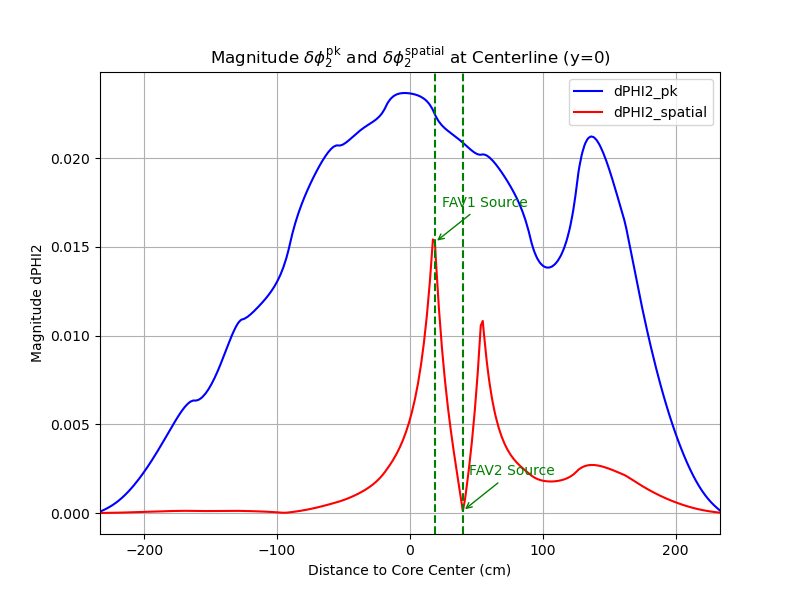
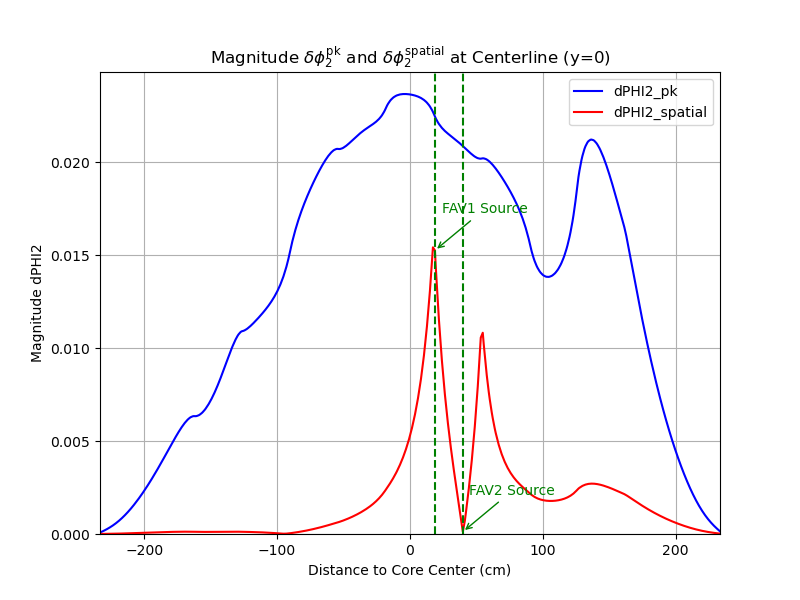
fix phase plot of pk components

diff --git a/OUTPUTS/OBJECTIVES3_TEST07_3DTriMG_HTTR_AVS/OBJECTIVES3_TEST07_3DTriMG_HTTR_AVS_level1_PK_COMPONENTS/OBJECTIVES3_TEST07_3DTriMG_HTTR_AVS_level1_NOISE/comparison2.py b/OUTPUTS/OBJECTIVES3_TEST07_3DTriMG_HTTR_AVS/OBJECTIVES3_TEST07_3DTriMG_HTTR_AVS_level1_PK_COMPONENTS/OBJECTIVES3_TEST07_3DTriMG_HTTR_AVS_level1_NOISE/comparison2.py
@@ -398,6 +398,13 @@ def plot_1D_centerline_y0_2(PHI1g, PHI2g, x_coords, y_coords, conv_tri, I_max, J
     ax1.set_ylabel(f'{process_data.capitalize()} dPHI{g}')
     ax1.set_title(fr'{process_data.capitalize()} $\delta \phi_{{{g}}}^{{\text{{pk}}}}$ and $\delta \phi_{{{g}}}^{{\text{{spatial}}}}$ at Centerline (y=0), Midplane (Z=5)')
     ax1.set_xlim(unique_distances[0], unique_distances[-1])
+    if process_data == 'magnitude':
+        ymax = max(max(flux1_values), max(flux2_values))
+        ymax *= 1.05
+        PHI2g = np.abs(PHI2g)  # Compute magnitude
+        ax1.set_ylim(0, ymax)
+    elif process_data == 'phase':
+        ax1.set_ylim(-180, 180)
     ax1.grid(True)
     ax1.legend(loc='best')
 

diff --git a/OUTPUTS/OBJECTIVES3_TEST08_3DTriMG_HTTR_FAV/OBJECTIVES3_TEST08_3DTriMG_HTTR_FAV_level3_PK_COMPONENTS/OBJECTIVES3_TEST08_3DTriMG_HTTR_FAV_level3_NOISE/comparison2.py b/OUTPUTS/OBJECTIVES3_TEST08_3DTriMG_HTTR_FAV/OBJECTIVES3_TEST08_3DTriMG_HTTR_FAV_level3_PK_COMPONENTS/OBJECTIVES3_TEST08_3DTriMG_HTTR_FAV_level3_NOISE/comparison2.py
@@ -409,6 +409,13 @@ def plot_1D_centerline_y0_2(PHI1g, PHI2g, x_coords, y_coords, conv_tri, I_max, J
     ax1.set_ylabel(f'{process_data.capitalize()} dPHI{g}')
     ax1.set_title(fr'{process_data.capitalize()} $\delta \phi_{{{g}}}^{{\text{{pk}}}}$ and $\delta \phi_{{{g}}}^{{\text{{spatial}}}}$ at Centerline (y=0), Midplane (Z=5)')
     ax1.set_xlim(unique_distances[0], unique_distances[-1])
+    if process_data == 'magnitude':
+        ymax = max(max(flux1_values), max(flux2_values))
+        ymax *= 1.05
+        PHI2g = np.abs(PHI2g)  # Compute magnitude
+        ax1.set_ylim(0, ymax)
+    elif process_data == 'phase':
+        ax1.set_ylim(-180, 180)
     ax1.grid(True)
     ax1.legend(loc='best')
 

diff --git a/OUTPUTS/OBJECTIVES3_TEST03_2DTriMG_HTTR2G_AVS/OBJECTIVES3_TEST03_2DTriMG_HTTR2G_AVS_level1_PK_COMPONENTS/OBJECTIVES3_TEST03_2DTriMG_HTTR2G_AVS_level1_NOISE/comparison2.py b/OUTPUTS/OBJECTIVES3_TEST03_2DTriMG_HTTR2G_AVS/OBJECTIVES3_TEST03_2DTriMG_HTTR2G_AVS_level1_PK_COMPONENTS/OBJECTIVES3_TEST03_2DTriMG_HTTR2G_AVS_level1_NOISE/comparison2.py
@@ -287,6 +287,14 @@ def plot_1D_centerline_y0_2(PHI1g, PHI2g, x_coords, y_coords, conv_tri, I_max, J
     ax1.set_ylabel(f'{process_data.capitalize()} dPHI{g}')
     ax1.set_title(fr'{process_data.capitalize()} $\delta \phi_{{{g}}}^{{\text{{pk}}}}$ and $\delta \phi_{{{g}}}^{{\text{{spatial}}}}$ at Centerline (y=0)')
     ax1.set_xlim(unique_distances[0], unique_distances[-1])
+
+    if process_data == 'magnitude':
+        ymax = max(max(flux1_values), max(flux2_values))
+        ymax *= 1.05
+        PHI2g = np.abs(PHI2g)  # Compute magnitude
+        ax1.set_ylim(0, ymax)
+    elif process_data == 'phase':
+        ax1.set_ylim(-180, 180)
     ax1.grid(True)
     ax1.legend(loc='best')
 

diff --git a/OUTPUTS/OBJECTIVES3_TEST04_2DTriMG_HTTR2G_FAV/OBJECTIVES3_TEST04_2DTriMG_HTTR2G_FAV_level5_PK_COMPONENTS/OBJECTIVES3_TEST04_2DTriMG_HTTR2G_FAV_level5_NOISE/comparison2.py b/OUTPUTS/OBJECTIVES3_TEST04_2DTriMG_HTTR2G_FAV/OBJECTIVES3_TEST04_2DTriMG_HTTR2G_FAV_level5_PK_COMPONENTS/OBJECTIVES3_TEST04_2DTriMG_HTTR2G_FAV_level5_NOISE/comparison2.py
@@ -301,6 +301,13 @@ def plot_1D_centerline_y0_2(PHI1g, PHI2g, x_coords, y_coords, conv_tri, I_max, J
     ax1.set_ylabel(f'{process_data.capitalize()} dPHI{g}')
     ax1.set_title(fr'{process_data.capitalize()} $\delta \phi_{{{g}}}^{{\text{{pk}}}}$ and $\delta \phi_{{{g}}}^{{\text{{spatial}}}}$ at Centerline (y=0)')
     ax1.set_xlim(unique_distances[0], unique_distances[-1])
+    if process_data == 'magnitude':
+        ymax = max(max(flux1_values), max(flux2_values))
+        ymax *= 1.05
+        PHI2g = np.abs(PHI2g)  # Compute magnitude
+        ax1.set_ylim(0, ymax)
+    elif process_data == 'phase':
+        ax1.set_ylim(-180, 180)
     ax1.grid(True)
     ax1.legend(loc='best')
 
